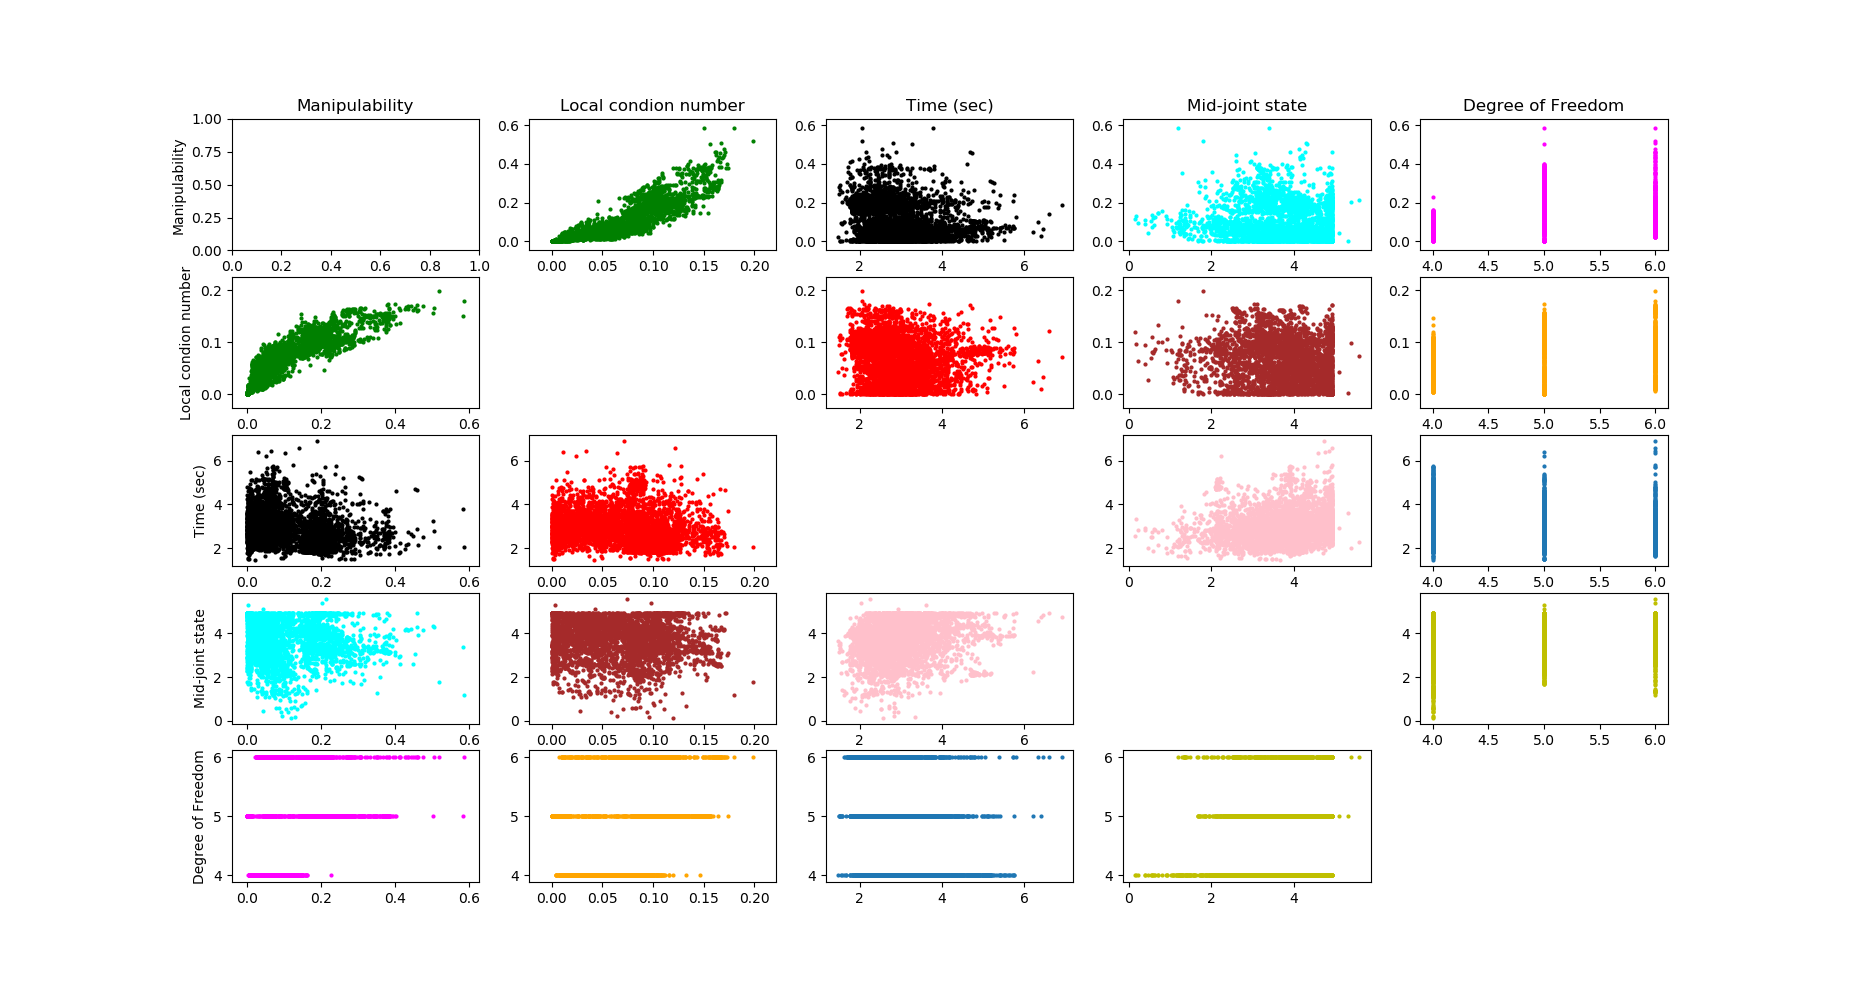
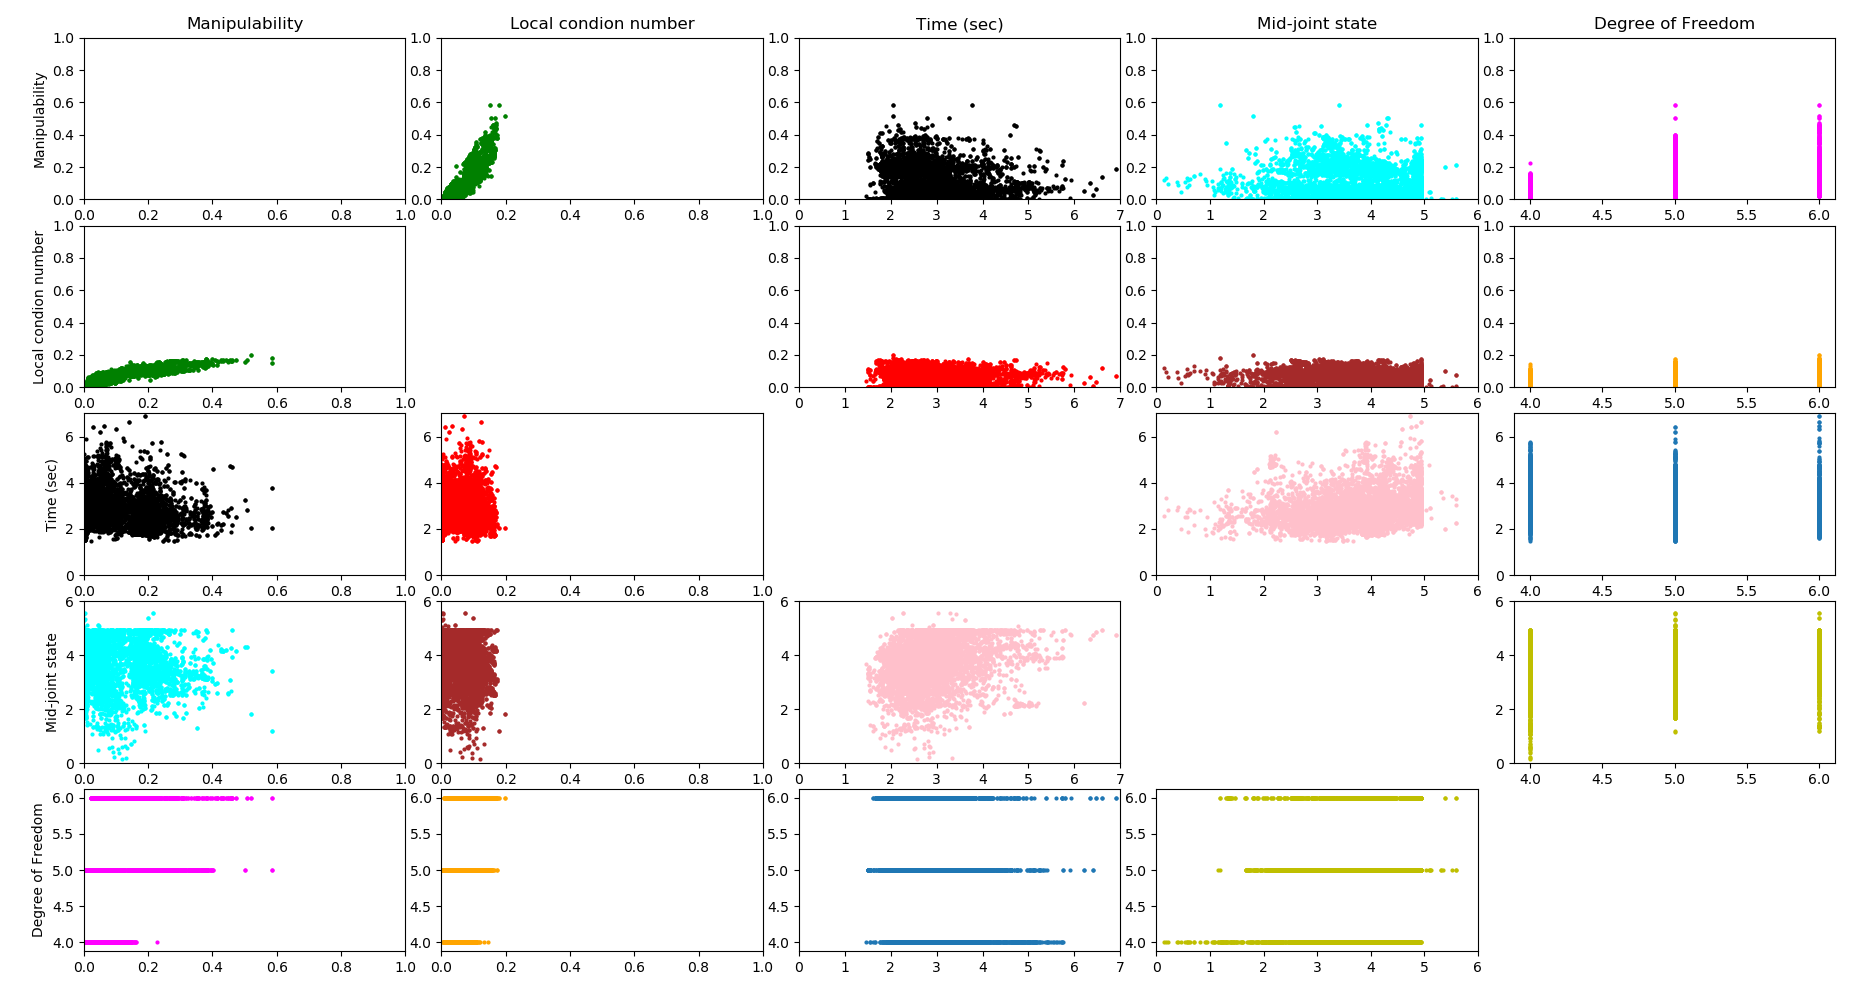
scale the plot of the indices

diff --git a/Code/Other.py b/Code/Other.py
@@ -182,7 +182,7 @@ class FixFromJson(object):
     def indices_calc(self, names, jacobian, cur_pos):
         cur_pos = np.asarray(cur_pos)
         jacobian = np.asarray(jacobian)
-        j_ev = np.linalg.svd(jacobian)[1]  # eighen values
+        j_ev = np.linalg.svd(jacobian, compute_uv=False)  # [1]  # singular (eighen) values
         # Manipulability index
         mu = round(np.product(j_ev), 3)  # self.manipulability_index(jacobian)
         # Local Conditioning Index
@@ -207,7 +207,6 @@ class FixFromJson(object):
     @staticmethod
     def mid_joint_proximity(cur_pos, names):
         joints = ["roll"]
-
         link_length = ["0.1"]
         name = names.split("_")
         for a in range(3, len(name) - 1):
@@ -311,7 +310,7 @@ def sum_data():
     return data
 
 
-def plot_data(result_file="/home/tamir/Tamir/Master/Code/results/recalculate/results_all_success"):
+def plot_data(result_file="/home/tamir/Tamir/Master/Code/results/recalculate/results_all"):
     # todo - scale all in the same scale
     all_data = MyCsv.read_csv(result_file, "dict")
     mu = []
@@ -328,66 +327,98 @@ def plot_data(result_file="/home/tamir/Tamir/Master/Code/results/recalculate/res
             dof.append(float(dat["dof"]))
     plt.subplot(551)
     plt.title("Manipulability")
-    # plt.scatter([], [])
+    plt.xlim(0,1)
     plt.ylabel("Manipulability")
     plt.subplot(556)
     plt.scatter(mu, lci, color="g", s=4)
+    plt.xlim(0, 1)
+    plt.ylim(0, 1)
     plt.ylabel("Local condion number")
     plt.subplot(5, 5, 11)
+    plt.xlim(0, 1)
+    plt.ylim(0, 7)
     plt.scatter(mu, time, color="black", s=4)
     plt.ylabel("Time (sec)")
     plt.subplot(5, 5, 16)
+    plt.xlim(0, 1)
+    plt.ylim(0, 6)
     plt.scatter(mu, z, color="cyan", s=4)
     plt.ylabel("Mid-joint state")
     plt.subplot(5, 5, 21)
+    plt.xlim(0, 1)
     plt.scatter(mu, dof, color="magenta", s=4)
     plt.ylabel("Degree of Freedom")
     #
     plt.subplot(552)
     plt.title("Local condion number")
     plt.scatter(lci, mu, color="g", s=4)
+    plt.xlim(0, 1)
+    plt.ylim(0, 1)
     # plt.subplot(557)
     # plt.scatter([], [])
     plt.subplot(5, 5, 12)
     plt.scatter(lci, time, color="r", s=4)
+    plt.xlim(0, 1)
+    plt.ylim(0, 7)
     plt.subplot(5, 5, 17)
     plt.scatter(lci, z, color="brown", s=4)
+    plt.xlim(0, 1)
+    plt.ylim(0, 6)
     plt.subplot(5, 5, 22)
     plt.scatter(lci, dof, color="orange", s=4)
+    plt.xlim(0, 1)
 
     plt.subplot(553)
     plt.title("Time (sec)")
     plt.scatter(time, mu, color="black", s=4)
+    plt.xlim(0, 7)
+    plt.ylim(0, 1)
     plt.subplot(558)
     plt.scatter(time, lci, color="r", s=4)
+    plt.xlim(0, 7)
+    plt.ylim(0, 1)
     # plt.subplot(5, 5,13)
     # plt.scatter([], [])
     plt.subplot(5, 5, 18)
     plt.scatter(time, z, color="pink", s=4)
+    plt.xlim(0, 7)
+    plt.ylim(0, 6)
     plt.subplot(5, 5, 23)
     plt.scatter(time, dof, s=4)
+    plt.xlim(0, 7)
 
     plt.subplot(554)
     plt.title("Mid-joint state")
+    plt.xlim(0, 6)
+    plt.ylim(0, 1)
     plt.scatter(z, mu, color="cyan", s=4)
     plt.subplot(559)
+    plt.xlim(0, 6)
+    plt.ylim(0, 1)
     plt.scatter(z, lci, color="brown", s=4)
     plt.subplot(5, 5, 14)
     plt.scatter(z, time, color="pink", s=4)
+    plt.xlim(0, 6)
+    plt.ylim(0, 7)
     # plt.subplot(5,5,19)
     # plt.scatter([], [])
     plt.subplot(5, 5, 24)
     plt.scatter(z, dof, color="y", s=4)
+    plt.xlim(0, 6)
 
     plt.subplot(555)
     plt.title("Degree of Freedom")
+    plt.ylim(0, 1)
     plt.scatter(dof, mu, color="magenta", s=4)
     plt.subplot(5, 5, 10)
+    plt.ylim(0, 1)
     plt.scatter(dof, lci, color="orange", s=4)
     plt.subplot(5, 5, 15)
+    plt.ylim(0, 7)
     plt.scatter(dof, time, s=4)
     plt.subplot(5, 5, 20)
     plt.scatter(dof, z, color="y", s=4)
+    plt.ylim(0, 6)
     plt.subplot(5, 5, 24)
     # plt.scatter([], [])
     plt.show()
@@ -396,8 +427,8 @@ def plot_data(result_file="/home/tamir/Tamir/Master/Code/results/recalculate/res
 if __name__ == '__main__':
     split = False
     sumdata = False
-    to_merge = True
-    plotdata = False
+    to_merge = False
+    plotdata = True
     fix_from_json = False
     fix_all_from_json = False
     if to_merge:

diff --git a/Code/simulator.py b/Code/simulator.py
@@ -388,10 +388,10 @@ if __name__ == '__main__':
 # todo - fix the Json save format
 # todo the file name wont change when date change
 # todo change link0 to the platform -
-# todo change the base_link to 0 meters - check difference
+# tod change the base_link to 0 meters - check difference
 # todo check planner parameters
 # TODo how accuracy in go to pose effect
-# Todo fix obstacle parameters
+# Todo fix obstacle parameters?
 # todo? add to rename the total of success
 # Done - when not creating an urdf dont use defualt!!!
 # done - check the prismatic limits

diff --git a/Code/ros.py b/Code/ros.py
@@ -220,7 +220,6 @@ class MoveGroupPythonInterface(object):
         self.box_name = floor['name']
         self.scene.add_box(self.box_name, box_pose, size=floor['size'])
         # self.scene.attach_box('base_link', self.box_name)
-
         # add plant
         cylinder_pose = geometry_msgs.msg.PoseStamped()
         cylinder_pose.header.frame_id = self.robot.get_planning_frame()
